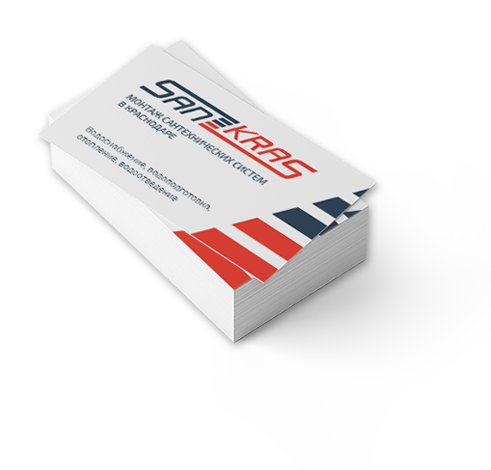
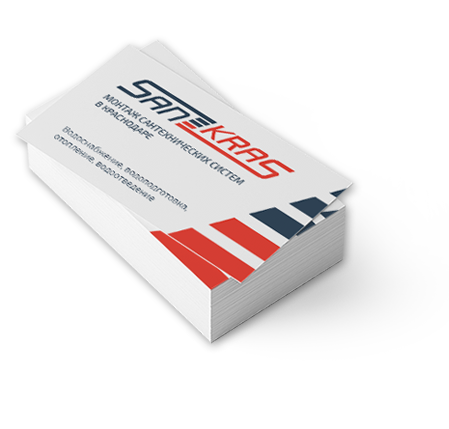
дисконтная карта

diff --git a/web/css/style.css b/web/css/style.css
@@ -642,8 +642,7 @@ header > div > div{
     height: 470px;
     position: absolute;
     top: -59px;
-    left: -200px;
-    z-index: 2;
+    left: -177px;
 }
 .card .form .loading {
     top: 90px;
